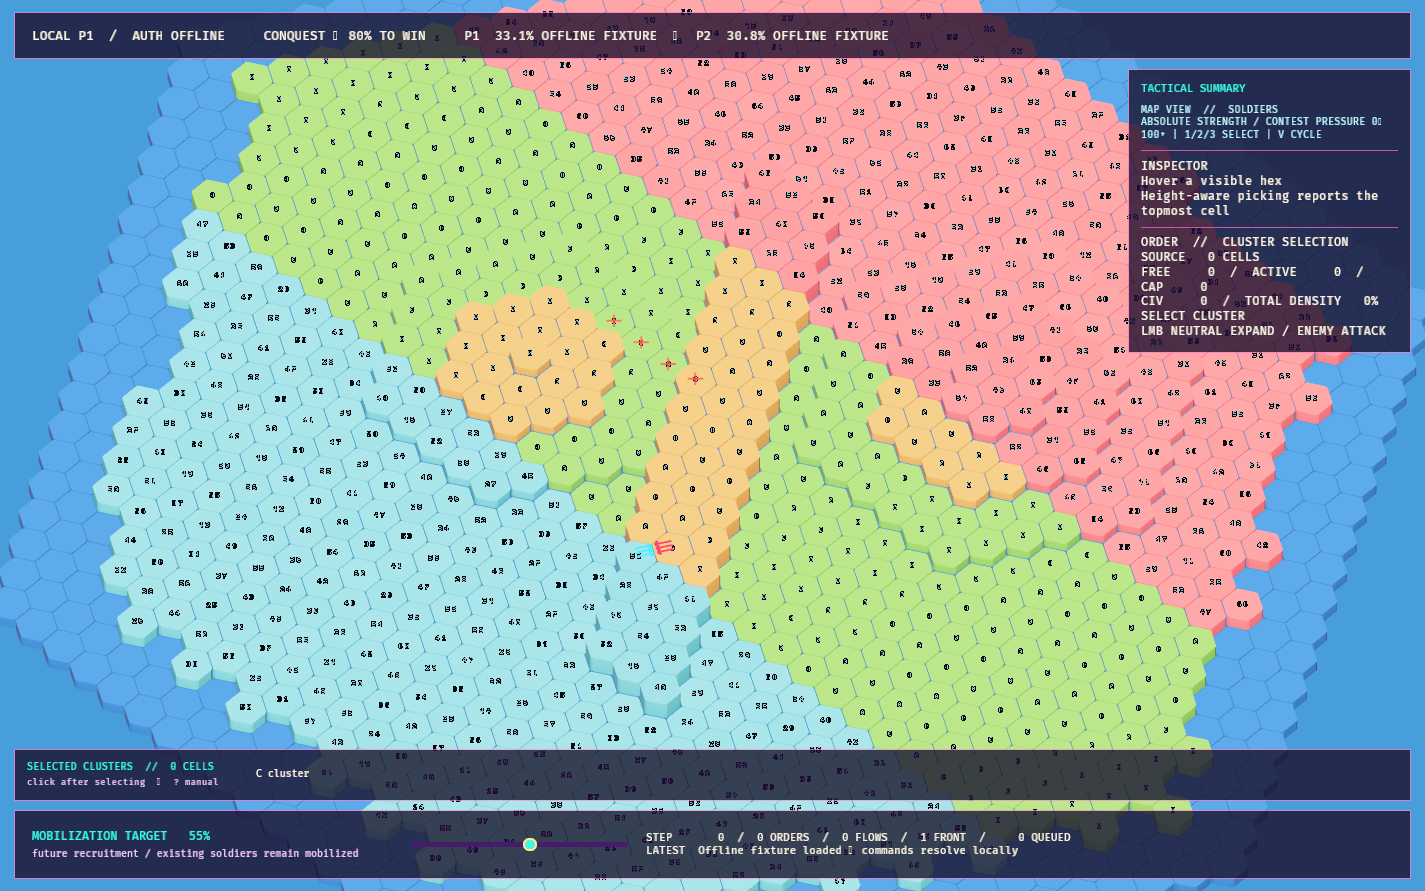
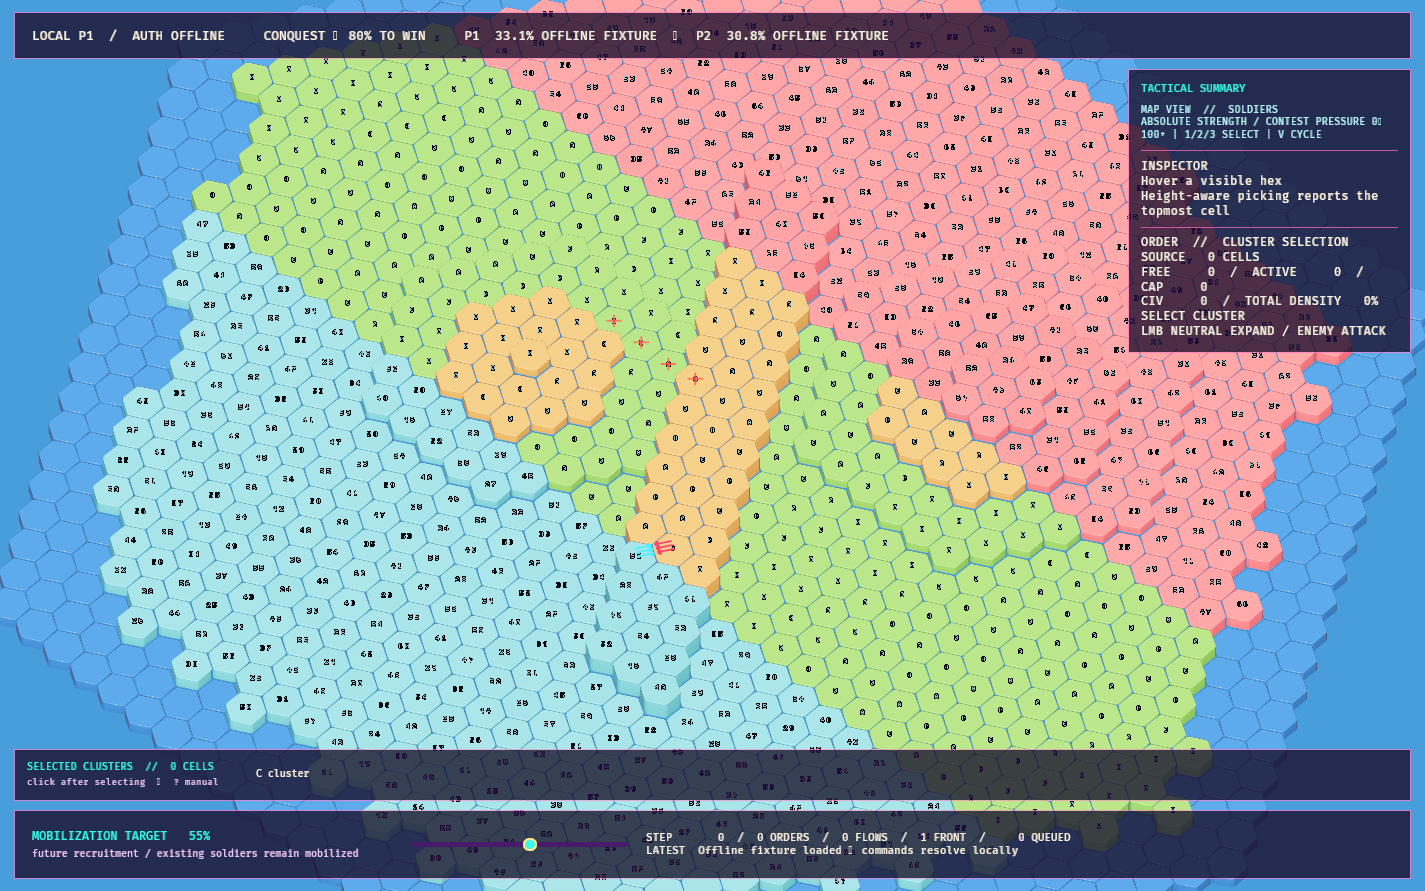
Round the top lip onto the hex walls.
HEX_RADIUS * 0.06 from the flat top down onto the sides, smaller than the
plan fillet so the column still reads as a step. The base stays the
elevation cut — I am not rounding that.

diff --git a/crates/game-client/src/terrain.rs b/crates/game-client/src/terrain.rs
@@ -14,8 +14,9 @@ use hex_core::{Axial, ChunkCoord, TerrainKind};
 
 use crate::{
     geometry::{
-        COLUMN_FLOOR, HEX_FILLET_ARC_POINTS, HEX_OUTLINE_LEN, cell_top, edge_index_for_direction,
-        filleted_outline, world_center,
+        COLUMN_FLOOR, HEX_FILLET_ARC_POINTS, HEX_LIP_ARC_POINTS, HEX_LIP_RADIUS, HEX_OUTLINE_LEN,
+        cell_top, edge_index_for_direction, filleted_outline, hex_lip_normal, hex_lip_point,
+        world_center,
     },
     map_view::{MapViewMode, normalized_cell_value, normalized_soldier_strength},
     model::{CellView, ContestedCellView, MatchView},
@@ -471,10 +472,13 @@ fn push_cell(builder: &mut ChunkMeshBuilder, view: &MatchView, cell: &CellView, 
     let center = world_center(cell.coordinate, cell.elevation, cell.is_water());
     let top_color = cell_color(cell, view.contested_cells.get(&cell.coordinate), mode);
     let outline = filleted_outline(center, top_y);
+    let inner = std::array::from_fn::<_, HEX_OUTLINE_LEN, _>(|index| {
+        hex_lip_point(center, outline[index], top_y, 0.0)
+    });
 
     let center_index = builder.vertex(cell.coordinate, center, Vec3::Y, top_color, 1.0);
     let rim = std::array::from_fn::<_, HEX_OUTLINE_LEN, _>(|index| {
-        builder.vertex(cell.coordinate, outline[index], Vec3::Y, top_color, 1.0)
+        builder.vertex(cell.coordinate, inner[index], Vec3::Y, top_color, 1.0)
     });
     for index in 0..HEX_OUTLINE_LEN {
         let next = (index + 1) % HEX_OUTLINE_LEN;
@@ -488,6 +492,33 @@ fn push_cell(builder: &mut ChunkMeshBuilder, view: &MatchView, cell: &CellView, 
             view.cell(neighbor_coord).map_or(COLUMN_FLOOR, |neighbor| {
                 cell_top(neighbor.elevation, neighbor.is_water())
             });
+    }
+
+    let lip = std::array::from_fn::<_, HEX_OUTLINE_LEN, _>(|index| {
+        std::array::from_fn::<_, HEX_LIP_ARC_POINTS, _>(|sample| {
+            let t = sample as f32 / (HEX_LIP_ARC_POINTS - 1) as f32;
+            let position = hex_lip_point(center, outline[index], top_y, t);
+            let normal = hex_lip_normal(center, outline[index], t);
+            let shade_factor = 1.0 - t * 0.08;
+            builder.vertex(
+                cell.coordinate,
+                position,
+                normal,
+                shade(top_color, shade_factor),
+                shade_factor,
+            )
+        })
+    });
+    for index in 0..HEX_OUTLINE_LEN {
+        let next = (index + 1) % HEX_OUTLINE_LEN;
+        for sample in 0..HEX_LIP_ARC_POINTS - 1 {
+            let d = lip[index][sample];
+            let c = lip[next][sample];
+            let a = lip[index][sample + 1];
+            let b = lip[next][sample + 1];
+            builder.triangle(cell.coordinate, a, c, b);
+            builder.triangle(cell.coordinate, a, d, c);
+        }
     }
 
     for index in 0..HEX_OUTLINE_LEN {
@@ -504,12 +535,13 @@ fn push_cell(builder: &mut ChunkMeshBuilder, view: &MatchView, cell: &CellView, 
         } else {
             (top_y - 0.065).max(COLUMN_FLOOR)
         };
-        if bottom_y >= top_y {
+        let wall_top_y = top_y - HEX_LIP_RADIUS;
+        if bottom_y >= wall_top_y {
             continue;
         }
 
-        let top_a = outline[index];
-        let top_b = outline[next];
+        let top_a = hex_lip_point(center, outline[index], top_y, 1.0);
+        let top_b = hex_lip_point(center, outline[next], top_y, 1.0);
         let bottom_a = Vec3::new(top_a.x, bottom_y, top_a.z);
         let bottom_b = Vec3::new(top_b.x, bottom_y, top_b.z);
         let normal = Vec3::new(
@@ -518,7 +550,7 @@ fn push_cell(builder: &mut ChunkMeshBuilder, view: &MatchView, cell: &CellView, 
             (top_a.z + top_b.z) * 0.5 - center.z,
         )
         .normalize();
-        let depth = ((top_y - bottom_y) / 2.4).clamp(0.0, 1.0);
+        let depth = ((wall_top_y - bottom_y) / 2.4).clamp(0.0, 1.0);
         let side_shade = 0.78 - depth * 0.10;
         let side_color = shade(top_color, side_shade);
         let a = builder.vertex(cell.coordinate, bottom_a, normal, side_color, side_shade);

diff --git a/crates/game-client/src/geometry.rs b/crates/game-client/src/geometry.rs
@@ -8,6 +8,11 @@ pub const HEX_FILLET_RADIUS: f32 = HEX_RADIUS * 0.16;
 /// Samples along each vertex arc, including both tangent endpoints.
 pub const HEX_FILLET_ARC_POINTS: usize = 3;
 pub const HEX_OUTLINE_LEN: usize = 6 * HEX_FILLET_ARC_POINTS;
+/// Quarter-circle from the flat top onto the vertical wall. Smaller than the
+/// plan fillet so the column still reads as a step, not a pebble.
+pub const HEX_LIP_RADIUS: f32 = HEX_RADIUS * 0.06;
+/// Samples along the top-to-side lip, including both endpoints.
+pub const HEX_LIP_ARC_POINTS: usize = 3;
 pub const ELEVATION_STEP: f32 = 0.36;
 pub const SEA_LEVEL: f32 = 0.02;
 pub const COLUMN_FLOOR: f32 = -0.42;
@@ -96,6 +101,26 @@ pub fn scaled_filleted_point(center: Vec3, point: Vec3, scale: f32) -> Vec3 {
     center + (point - center) * scale
 }
 
+/// `t = 0` is the inset top rim; `t = 1` is the outer wall just below the top.
+/// The column base is not rounded.
+pub fn hex_lip_point(center: Vec3, outline: Vec3, top_y: f32, t: f32) -> Vec3 {
+    let outward = hex_lip_outward(center, outline);
+    let radius = HEX_LIP_RADIUS;
+    let focus = Vec3::new(outline.x, top_y, outline.z) - outward * radius - Vec3::Y * radius;
+    let theta = t.clamp(0.0, 1.0) * std::f32::consts::FRAC_PI_2;
+    focus + outward * radius * theta.sin() + Vec3::Y * radius * theta.cos()
+}
+
+pub fn hex_lip_normal(center: Vec3, outline: Vec3, t: f32) -> Vec3 {
+    let outward = hex_lip_outward(center, outline);
+    let theta = t.clamp(0.0, 1.0) * std::f32::consts::FRAC_PI_2;
+    (outward * theta.sin() + Vec3::Y * theta.cos()).normalize_or_zero()
+}
+
+fn hex_lip_outward(center: Vec3, outline: Vec3) -> Vec3 {
+    Vec3::new(outline.x - center.x, 0.0, outline.z - center.z).normalize_or_zero()
+}
+
 fn fillet_arc_point(focus: Vec3, start: Vec3, end: Vec3, t: f32) -> Vec3 {
     let from = Vec2::new(start.x - focus.x, start.z - focus.z);
     let to = Vec2::new(end.x - focus.x, end.z - focus.z);
@@ -181,6 +206,30 @@ mod tests {
     fn fillet_radius_is_a_small_fraction_of_the_hex() {
         assert!((HEX_FILLET_RADIUS - HEX_RADIUS * 0.16).abs() < f32::EPSILON);
         assert!((HEX_FILLET_RADIUS - 0.1152).abs() < 1.0e-4);
+        assert!((HEX_LIP_RADIUS - HEX_RADIUS * 0.06).abs() < f32::EPSILON);
+        assert!((HEX_LIP_RADIUS - 0.0432).abs() < 1.0e-4);
+        const {
+            assert!(HEX_LIP_RADIUS < HEX_FILLET_RADIUS);
+        }
+    }
+
+    #[test]
+    fn lip_rounds_the_top_edge_and_leaves_the_column_base() {
+        let center = world_center(Axial::ZERO, 1, false);
+        let outline = filleted_outline(center, center.y);
+        let rim = outline[0];
+        let inner = hex_lip_point(center, rim, center.y, 0.0);
+        let outer = hex_lip_point(center, rim, center.y, 1.0);
+        let mid = hex_lip_point(center, rim, center.y, 0.5);
+
+        assert!((inner.y - center.y).abs() < 1.0e-5);
+        assert!((outer.y - (center.y - HEX_LIP_RADIUS)).abs() < 1.0e-5);
+        assert!(mid.y < inner.y && mid.y > outer.y);
+        let inner_r = Vec2::new(inner.x - center.x, inner.z - center.z).length();
+        let outer_r = Vec2::new(outer.x - center.x, outer.z - center.z).length();
+        assert!(inner_r + HEX_LIP_RADIUS * 0.5 < outer_r);
+        assert!((outer.x - rim.x).abs() < 1.0e-5 && (outer.z - rim.z).abs() < 1.0e-5);
+        assert!(COLUMN_FLOOR < outer.y);
     }
 
     #[test]
